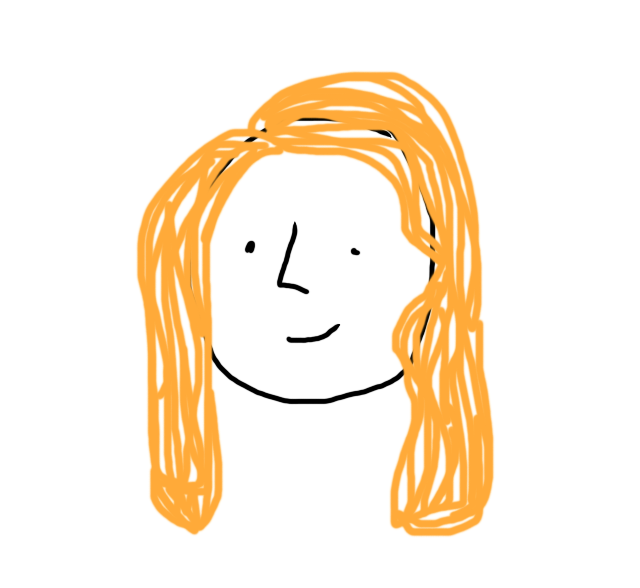
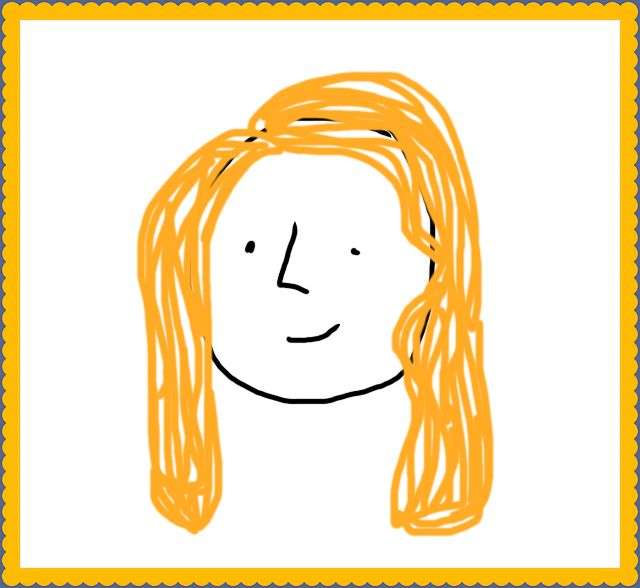
Added image for this websites flexbox box, and updated code and text in the about me section, as well as updated the profile image : )

Changed region(s): [[0.0, 0.0, 1.0, 1.0], [0.2188, 0.1224, 0.7812, 0.9184]]

diff --git a/Develop/index.html b/Develop/index.html
@@ -24,57 +24,73 @@
             </ul>
         </div>
     </div>
-    <div>
-        <section class="hero" img src=...assets/images/rainbow.jpg alt="pretty transparent background rainbow" ></section>
-</div>
-   <div class="Abtme">
-    <img src="./assets/images/me.jpg" alt= "me" />
-    <h2>About me</h2>
-    <p>I love biking and being outdoors and experiencing life in general.</p>
-</div>
 
-    <div class="Porfolio" id="Portfolio">
-    
-<div>
+<div class="trees" id="About me"> 
+  <img src="./assets/images/arbre.jpg" alt= "me" />
+
+ </div>
+
+   <div class="Aboutme" id="About me"> 
+      <img src="./assets/images/me.jpg" alt= "me" />
+       <h2>About me</h2>
+     <p>I love biking and being outdoors and experiencing life in general. Selon toutes les lois connues de l'aviation, il n'existe 
+       aucun moyen une abeille devrait être capable de voler.
+        Ses ailes sont trop petites pour que son gros corps disparaisse.
+        L'abeille bien sûr, vole de toute façon parce que les abeilles ne se 
+        soucient pas ce que les humains pensent est impossible. Jaune, noir. Jaune, noir. 
+        Jaune, noir. Ooh, noir et jaune! Secouons-le un peu. Barry! Le petit déjeuner est prêt! 
+        Ooming! Attends une seconde. Bonjour? Barry? -Adam? Pouvez-vous croire que cela se passe? - 
+        Je ne peux pas.</p>
+  </div>
+
+
+  <section class="work"id="Portfolio"> 
+    <header>Work</header>
+     </section>
+
+  
+   <div class="Portfolio" >
+
     <section class="horiseon">
       <a href="" ></a>
-      <img src="./assets/images/horiseon.jpg" alt="horiseon website" >
-      <p>Code refactoring</p>
+      <img src="./assets/images/horiseon.jpg" alt="Refactor project website image" >
+      
     </section>
-  </div>
+    
   <div class="products">
+
       <section class="card">
-        <header>Petfinder</header>
         <img src="./assets/images/pet-finder.jpg" alt="pet finder website" />
-        <p>Price: $300</p>
-        < href="https://stephan311.github.io/The-Ultimate-Personality-Pet-Finder/" target= "_blank" >
-      </section>
+            < href="https://stephan311.github.io/The-Ultimate-Personality-Pet-Finder/" target= "_blank" >
+              <p>Pet-Finder</p>
+             </section>
+
+
       <section class="card">
-        <header>Tablet</header>
-        <img src="./assets/images/portfolio.jpg" alt="this website" />
+        < href="https://stephan311.github.io/The-Ultimate-Personality-Pet-Finder/" target= "_blank" ></a>
+        <img src="./assets/images/this-web.jpg" alt="this website" />
         <p>Porfolio website</p>
+      
       </section>
+
       <section class="card">
-        <header>Homework 3</header>
-        <img
-          src="./assets/images/trees.jpg"
-          alt="a rainbow"
+        <img src="./assets/images/trees.jpg"
+          alt="forest trees shot from the earth"
         />
+        < href="https://stephan311.github.io/The-Ultimate-Personality-Pet-Finder/" target= "_blank" ></a>
         <p>Weather API</p>
       </section>
       <section class="card">
-        <header></header>
         <img
           src="./assets/images/a-chair.jpg"
-          alt="a wooden chair "
-        />
+          alt="a wooden chair " />
         <p>Project 4</p>
       </section>
-      </div>
 
-    </div>
+   </div>
+
+ </div>
     <div class="Contact-me" id="Contact me">
-        <div class="benefit-lead"></div>
             <h3>Contact me!</h3>
             <li>
                      Email: 

diff --git a/Develop/assets/css/style.css b/Develop/assets/css/style.css
@@ -48,38 +48,68 @@ p {
     font-size: 16px;
 }
 
-.Abtme {
+/*trees{
+height: 100px;
+    
+}*/
+
+
+.Aboutme {
 
     margin-bottom: 20px;
     padding: 50px;
-    height: 200px;
+    height: 210px;
     font-family: 'Gill Sans', 'Gill Sans MT', Calibri, 'Trebuchet MS', sans-serif;
-    background-color: #78c5f5;
+    background-color: #5dd8e0;
     color: #ffffff;
-    text-align: center
+    text-align: center;
 
-}
-.Abtme img {
+  }
+
+
+.Aboutme img {
     max-width: 150px;
     float: left
 
 }
 
-.horiseon {
-    flex:auto
-    padding: 10px;
-    display: flex;
-    flex-wrap: wrap;
-    justify-content: center;
-    flex-shrink: 1;
-    gap: 10px
+
+.work{
+
+    margin-bottom: 20px;
+    height: 80px;
+    background-color: #5dd8e0;
+    color: #ffffff;
+    text-align: center;
+    font-size: 68px;
+    border-bottom: solid 12px rgb(136, 255, 0); width: 26vh; padding-top: 5px;
 
 
 }
+
+
+.horiseon {
+    border-style: none;
+    background-color: rgb(246, 253, 204);
+    border-width: 1px;
+    border-radius: 10px;
+    padding: 10px;
+    flex: 0 0 400px;
+    flex-shrink: 1;
+    flex:auto;
+    display: flex;
+    flex-wrap: wrap;
+    flex-direction: column;
+    justify-content: center;
+    
+
+}
 .horiseon img {
- max-width: 500px;
+
+ max-width: 490px;
  display: block;  
  flex-shrink: 1;
+ flex-wrap: wrap;
 
 }
 .products {
@@ -95,7 +125,7 @@ p {
   
   .card {
     border-style: none;
-    background-color: rgb(0, 174, 255);
+    background-color: rgb(246, 253, 204);
     border-width: 1px;
     border-radius: 10px;
     padding: 10px;
